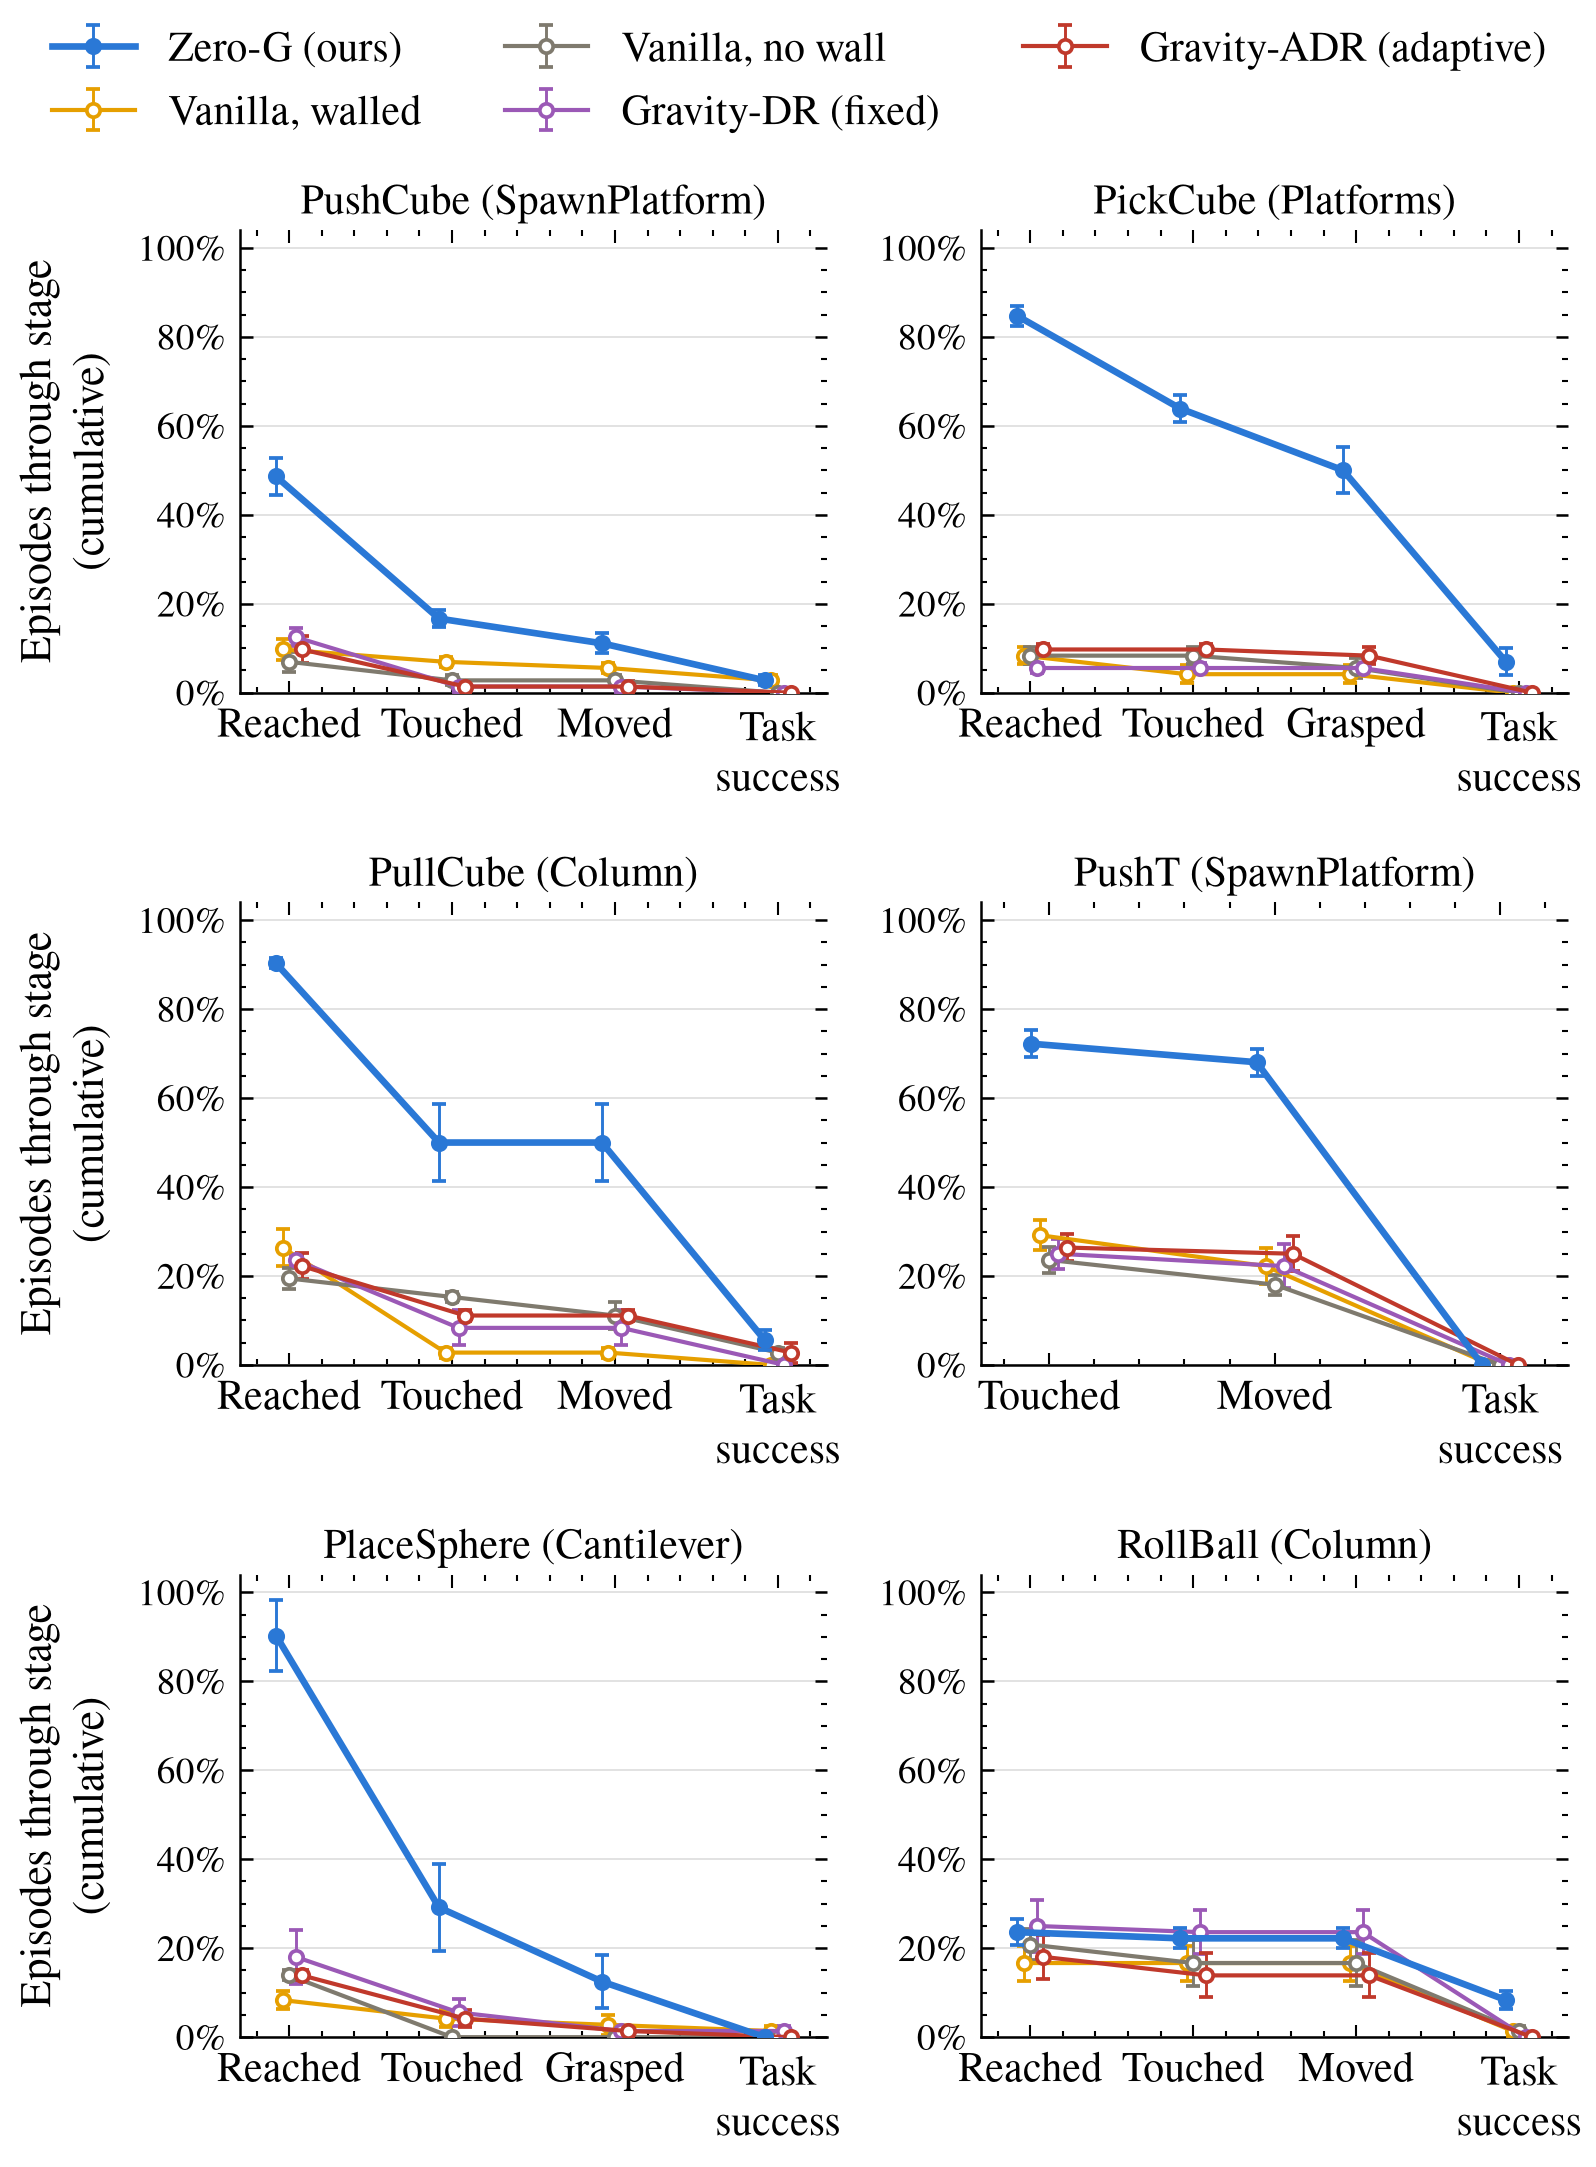
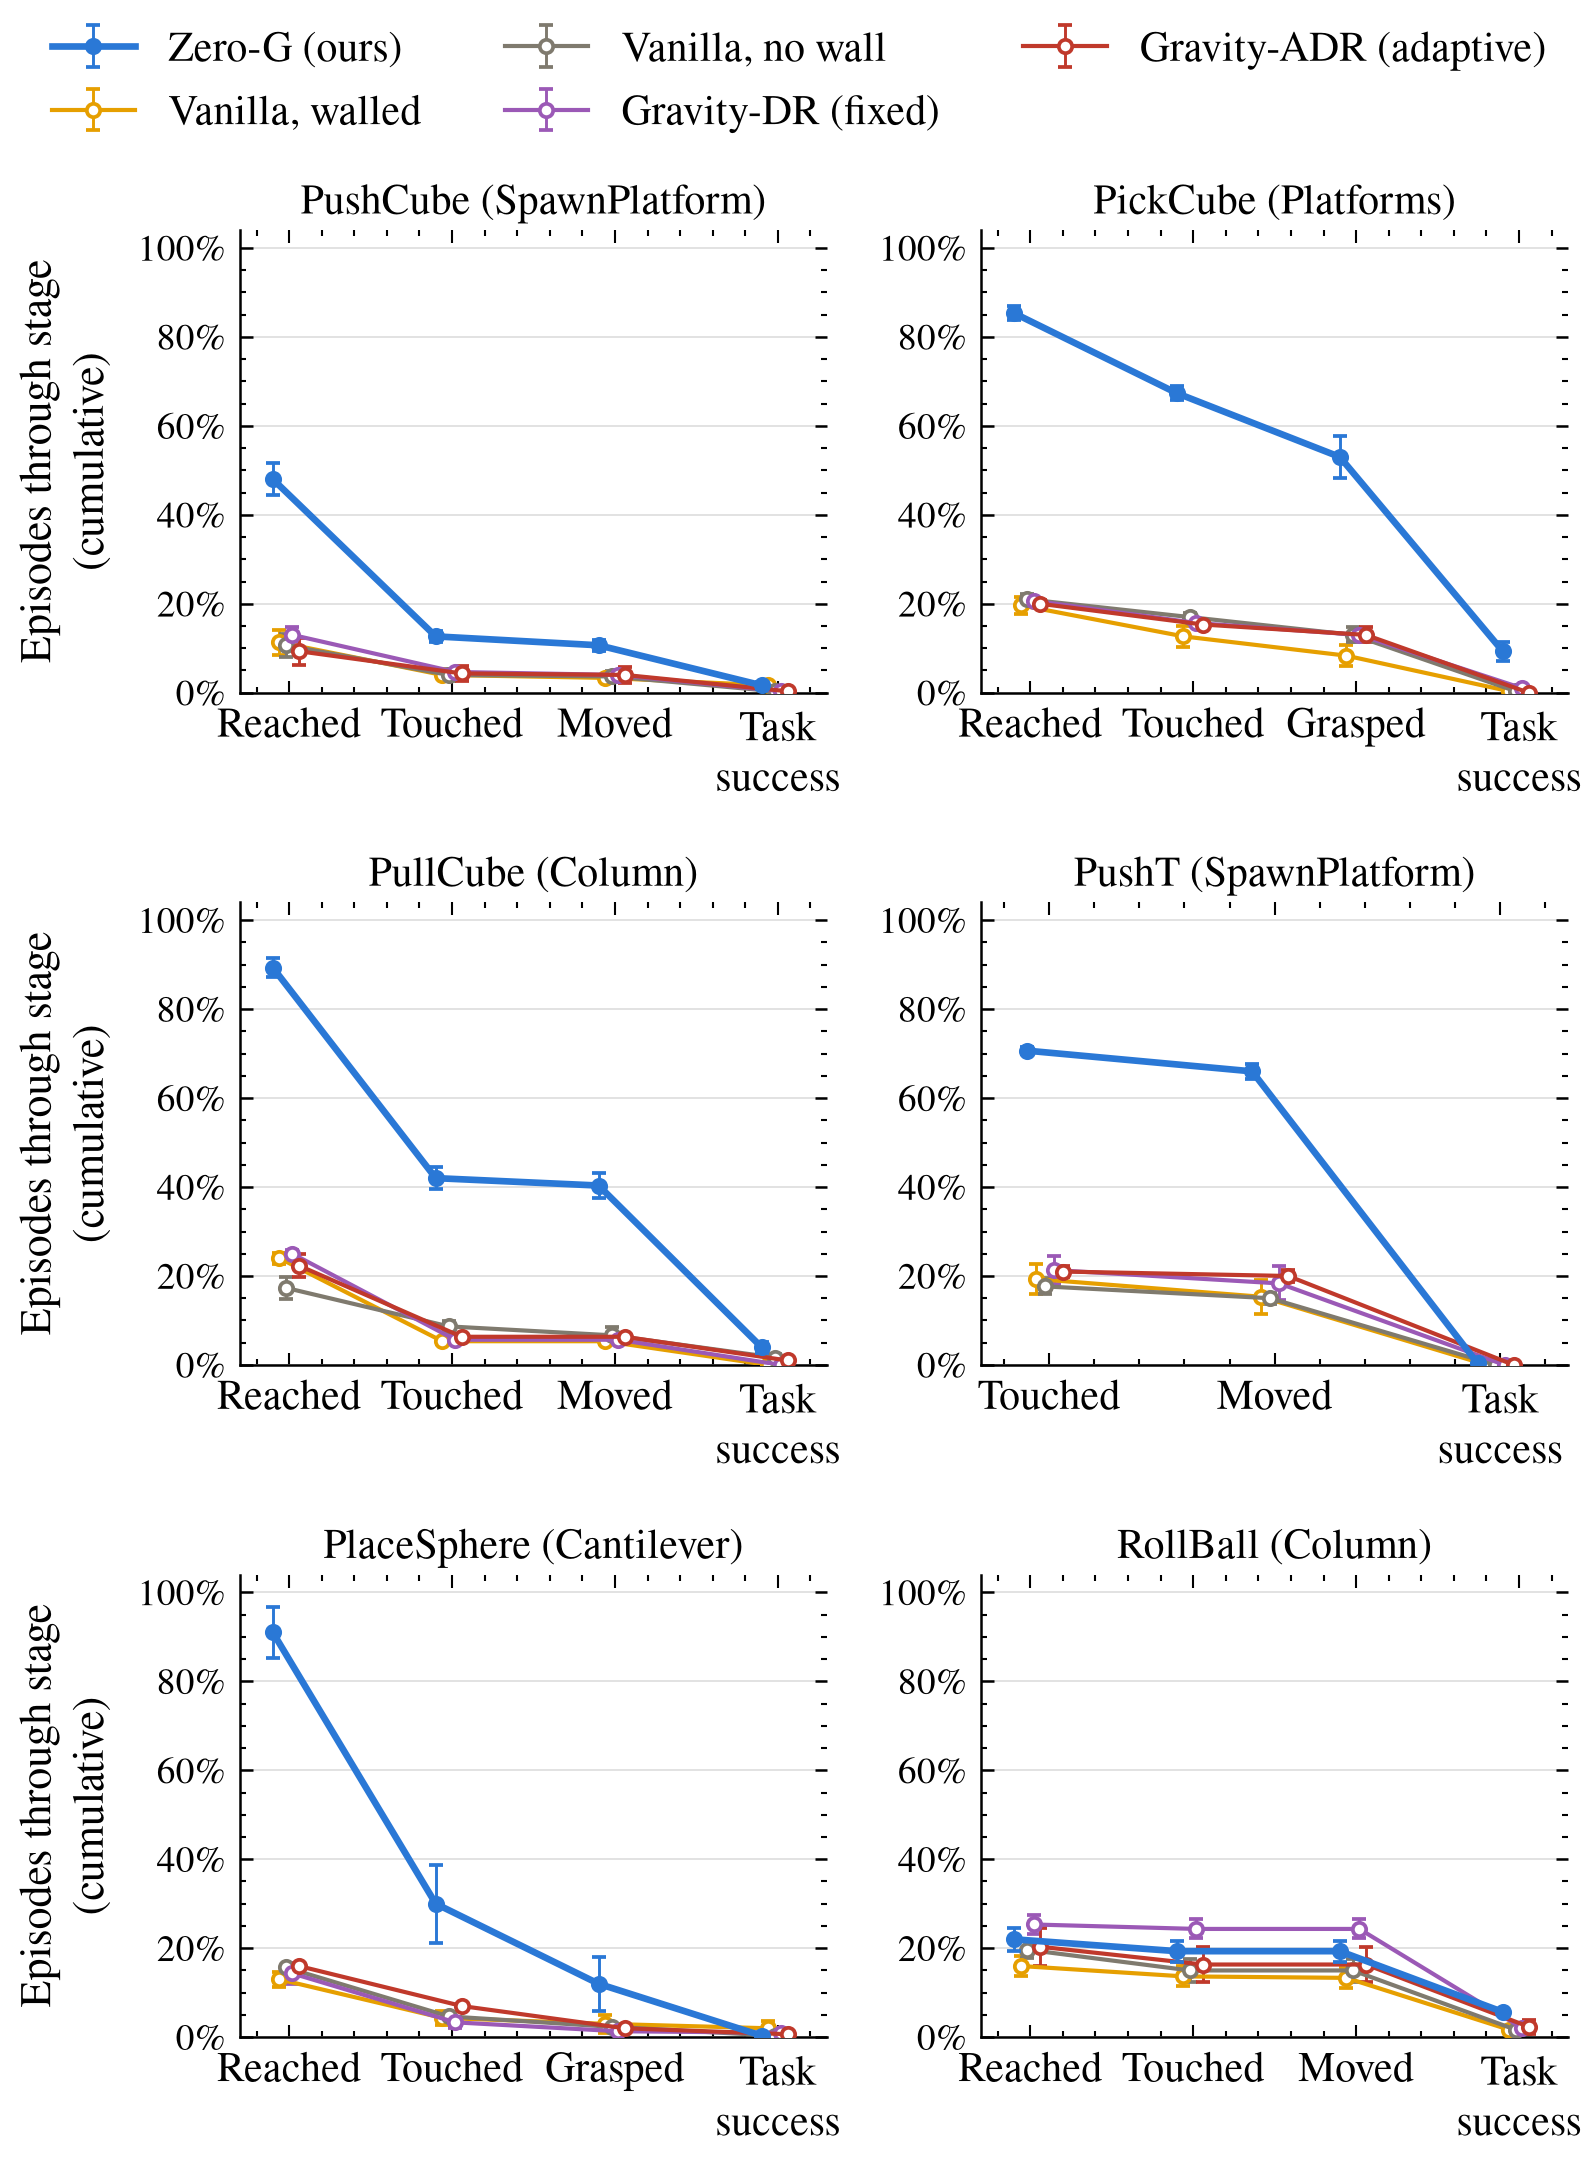
Headline figure: redraw from the 100-episode evaluation
Claude-Session: https://claude.ai/code/session_01UjkjnsmNTetpR5MXkkNTSc

diff --git a/index.html b/index.html
@@ -91,7 +91,7 @@
         the object far more often than any gravity-trained baseline, including gravity randomisation; the baselines
         mostly stop at the first stage. Full task success stays low for every policy, because these variants add a step
         none was trained for (getting the object down from the support). Provisional numbers: CPU simulation,
-        24 episodes per evaluation.
+        100 episodes per evaluation.
       </figcaption>
     </figure>
 
